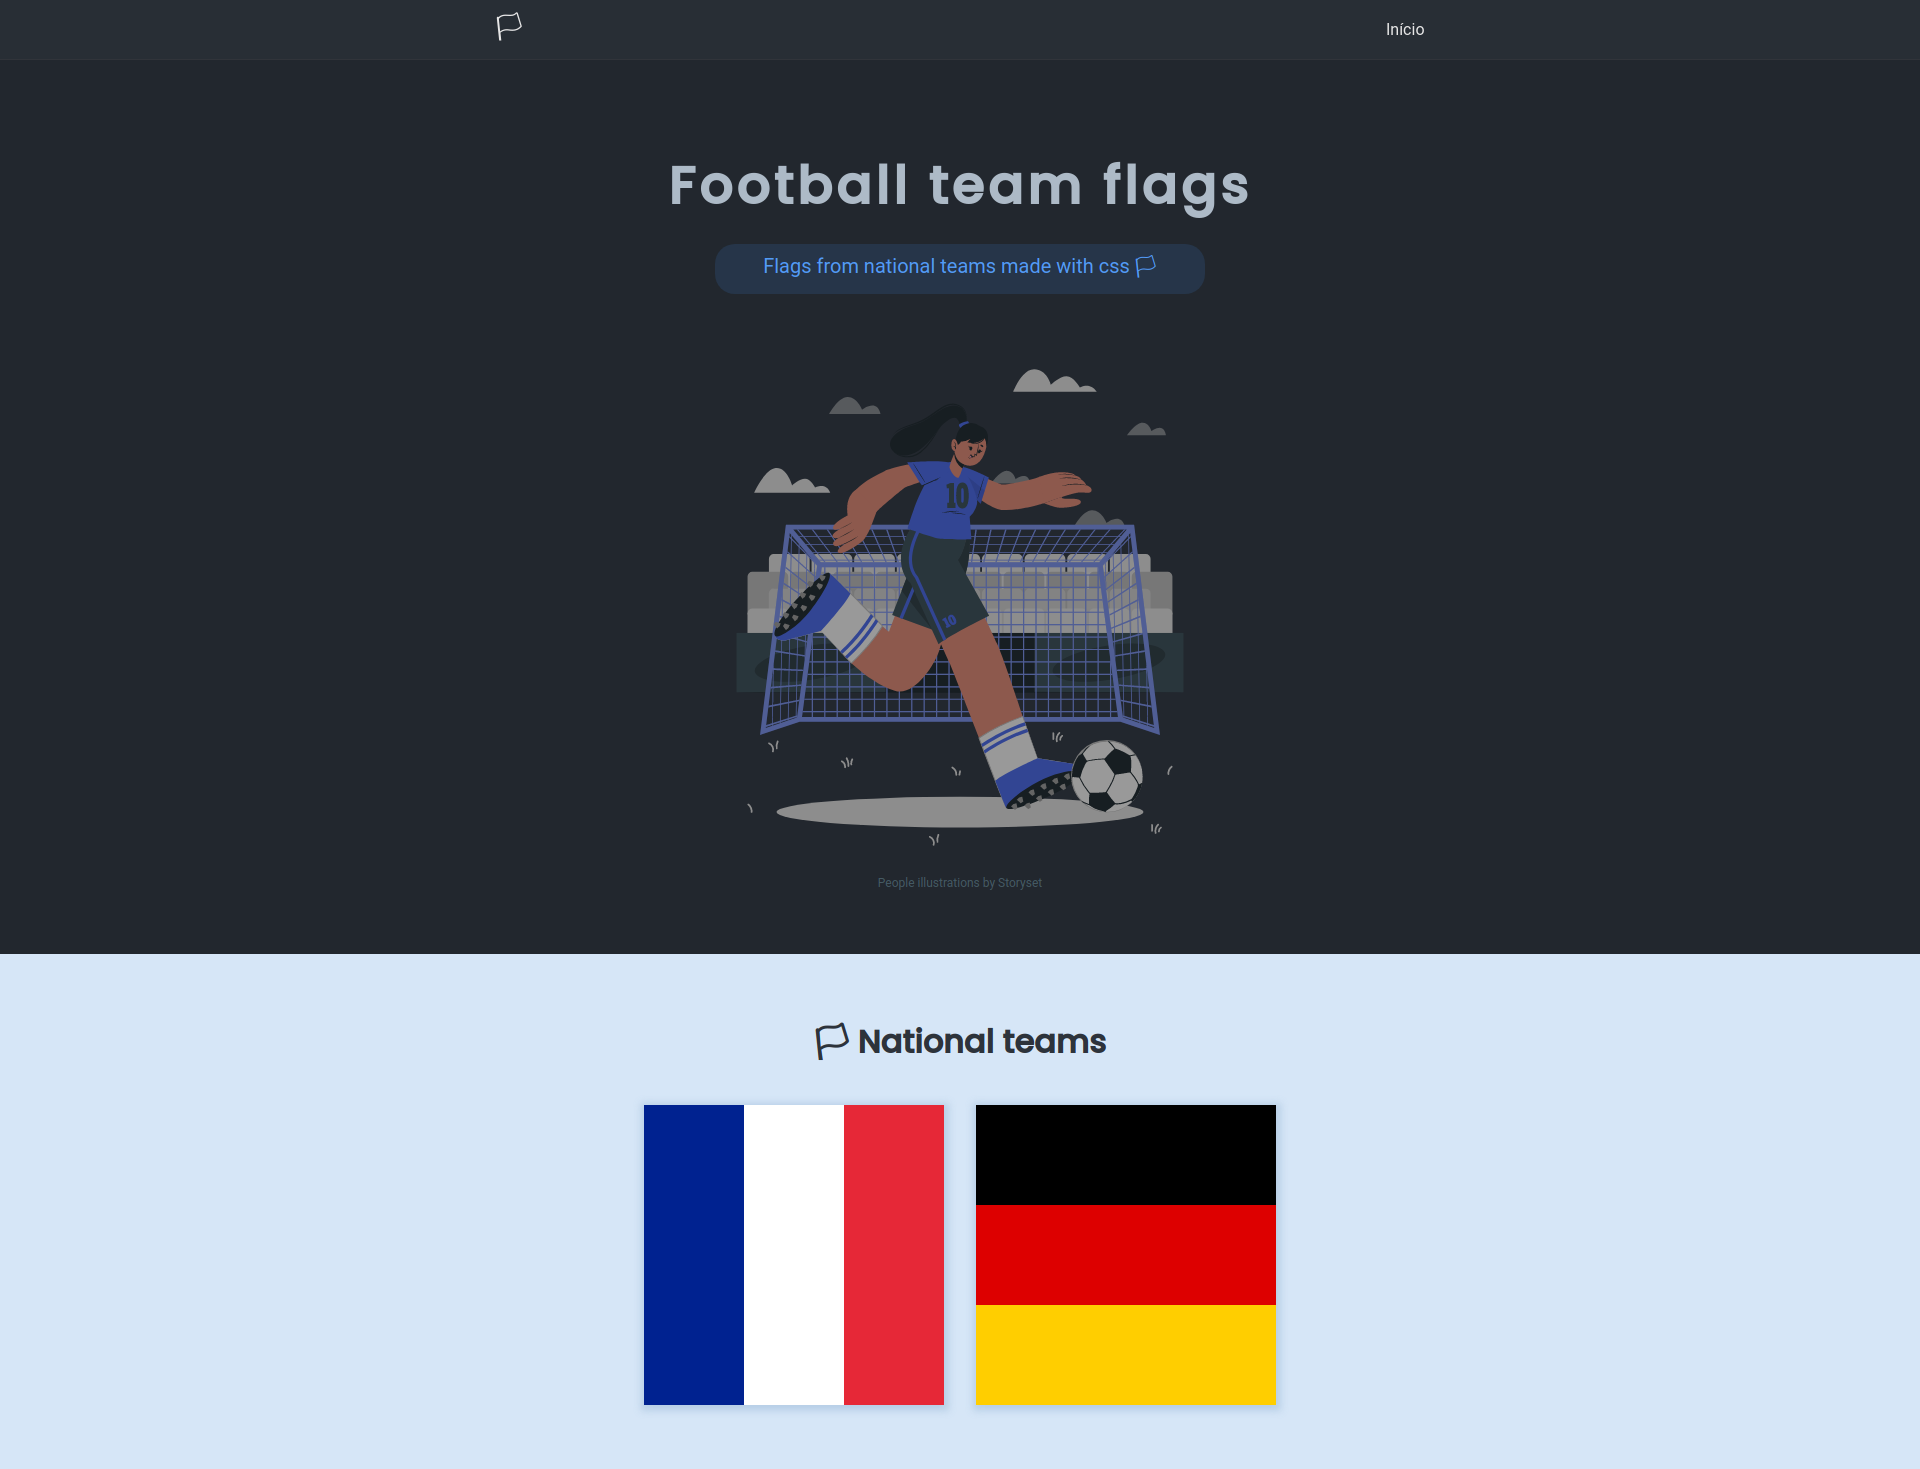
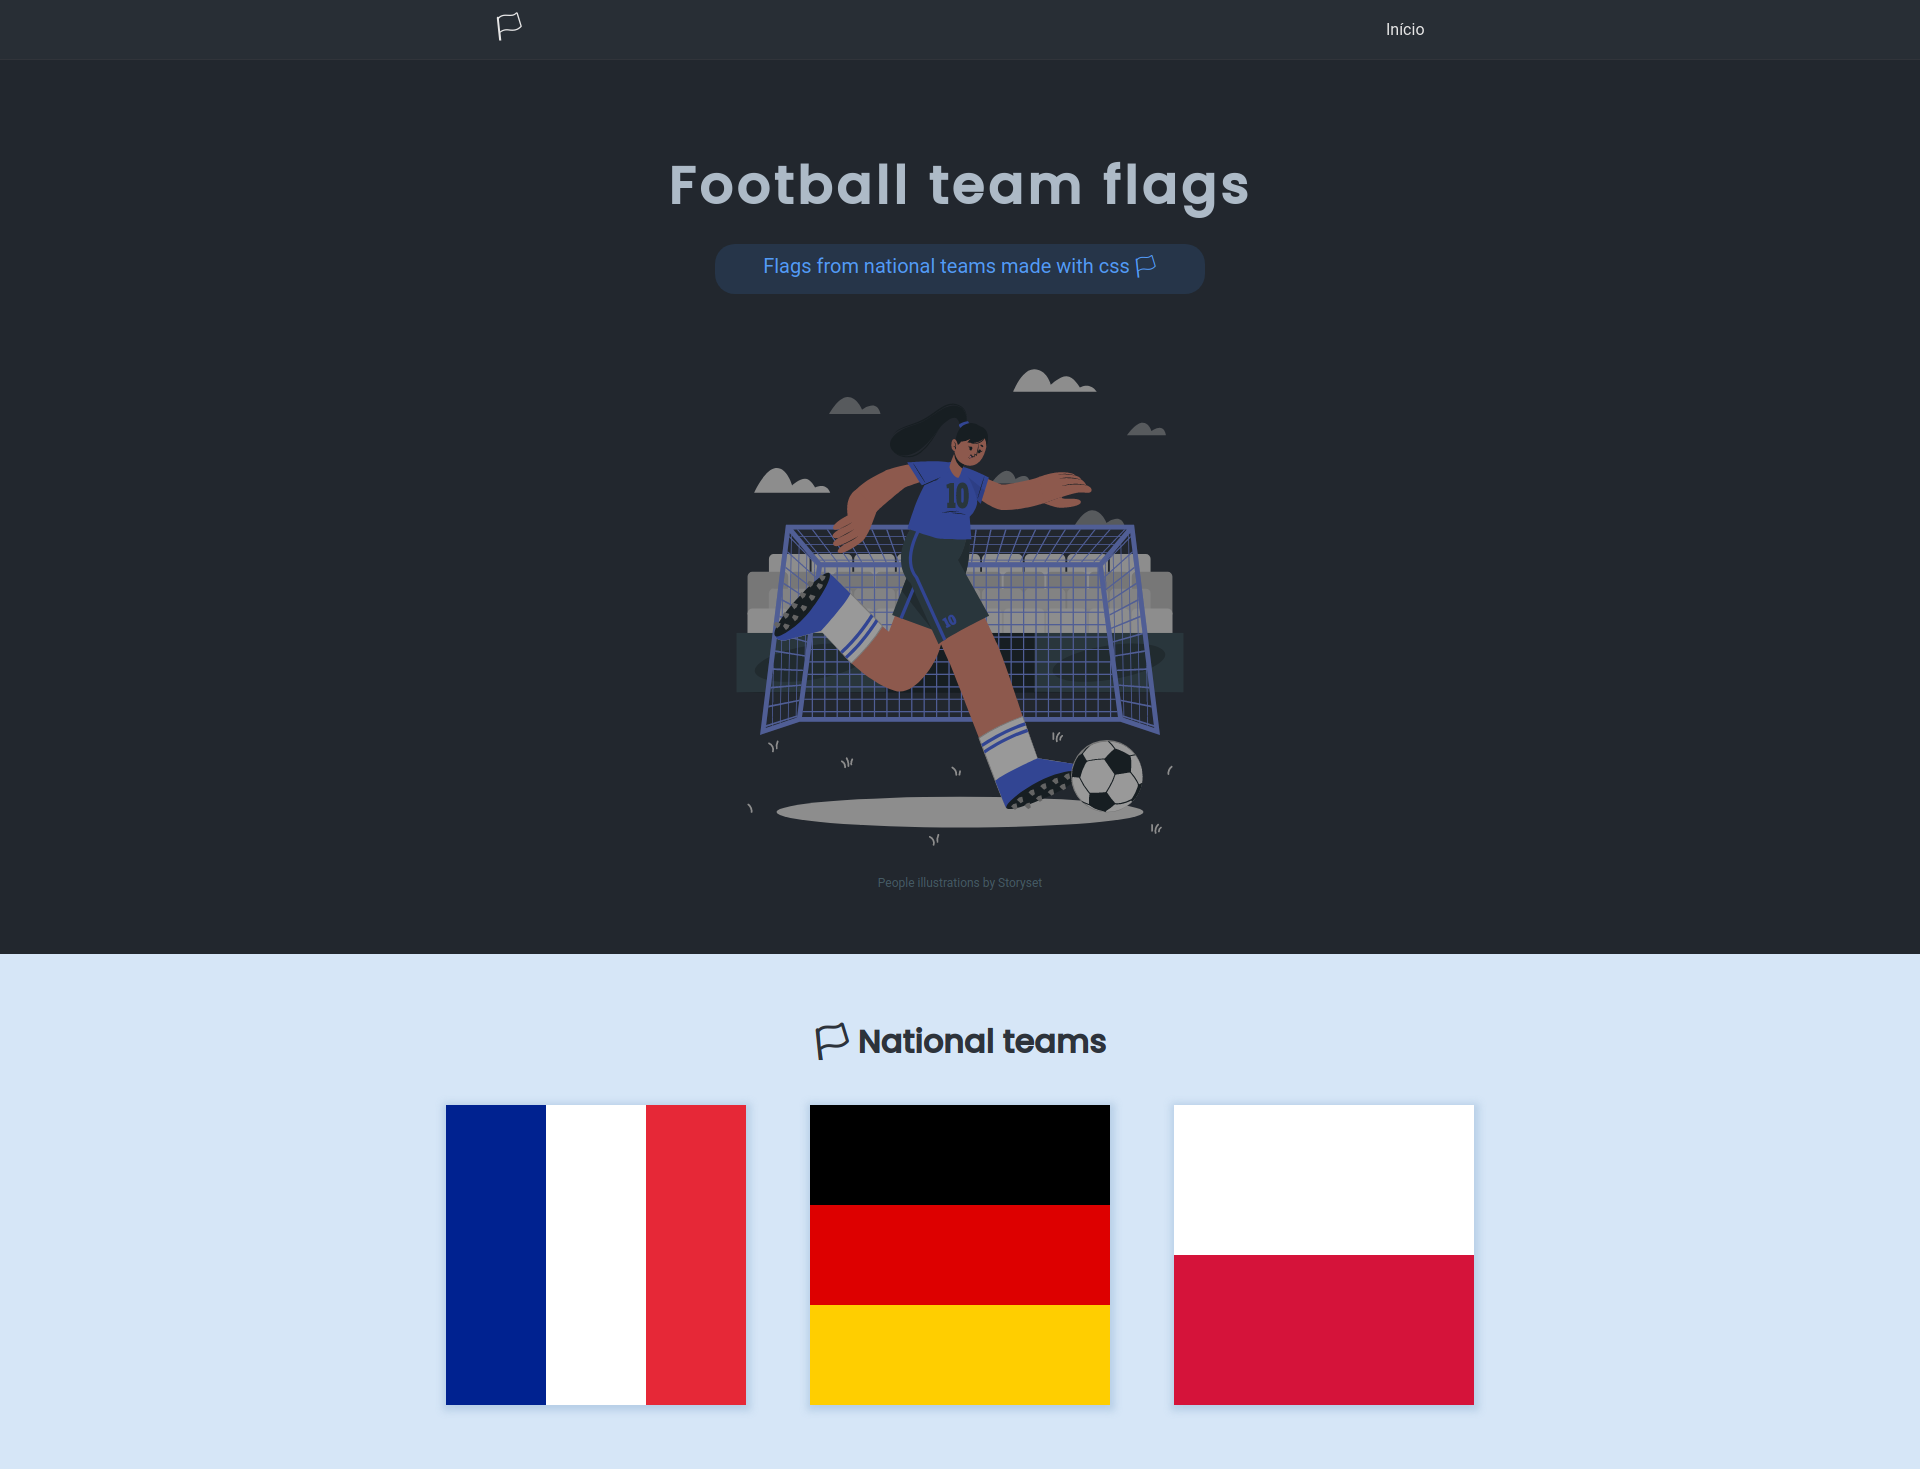
Add more space between flags and update screenshot from readme.md

Changed region(s): [[0.2188, 0.7352, 0.5312, 0.9803], [0.5625, 0.7352, 0.7812, 0.9803]]

diff --git a/css/app.css b/css/app.css
@@ -1,1 +1,1 @@
-@import url(https://fonts.googleapis.com/css2?family=Poppins:wght@400;500&family=Roboto:wght@400;700&display=swap);align-content-flex-end{-webkit-align-content:flex-end;-ms-flex-line-pack:end;align-content:flex-end}.flags,.the-header header,.the-hero .hero-img{-webkit-align-items:center;-webkit-box-align:center;-moz-box-align:center;-ms-flex-align:center;align-items:center;display:-webkit-box;display:-moz-box;display:-ms-flexbox;display:-webkit-flex;display:flex}.flags,.the-hero .hero-img{-webkit-flex-direction:column;-webkit-box-direction:normal;-webkit-box-orient:vertical;-moz-box-direction:normal;-ms-flex-direction:column;-moz-box-orient:vertical;flex-direction:column}.flags .list{display:-webkit-inline-box;display:-moz-inline-box;display:-ms-inline-flexbox;display:-webkit-inline-flex;display:inline-flex;-webkit-justify-content:center;-webkit-box-pack:center;justify-content:center;-moz-box-pack:center;-ms-flex-pack:center;gap:32px}.the-header header{-webkit-justify-content:space-between;-webkit-box-pack:justify;justify-content:space-between;-moz-box-pack:justify;-ms-flex-pack:justify;height:100%;margin:0 auto;max-width:993px;padding:0 32px}a,article,aside,body,button,div,figure,h1,h2,h3,h4,h5,h6,header,input,li,main,nav,section,span,table,tbody,td,th,thead,tr,ul{border:0;box-sizing:border-box;color:#adbac7;font-family:"Roboto",sans-serif;font-size:16px;font-weight:400;margin:0;padding:0}body{background-color:#22272e;height:100%;width:100%}ul{list-style:none}.the-header{background-color:#2d333b;border-bottom:1px solid #363a40;filter:brightness(.9);height:60px}.the-header .logo span{color:#fff;font-size:25px}.the-header ul li{color:#fff}.the-hero{margin:100px auto 0;max-width:993px;padding:0 32px 64px}.the-hero h1{font-family:"Poppins",sans-serif;font-size:52px;font-weight:700;letter-spacing:4px;line-height:100%;text-align:center}.the-hero h2{background-color:rgba(65,132,228,.15);border-radius:20px;color:#539bf5;font-size:20px;max-width:490px;margin:32px auto;padding:8px 16px;transition:all .2s;text-align:center}.the-hero h2:hover{background-color:rgba(65,132,228,.4)}.the-hero .hero-img a{color:#455a64;font-size:12px;text-decoration:none}.the-hero .hero-img svg{filter:brightness(.6);height:auto;max-width:550px}@media screen and (max-width:768px){.the-hero h1{text-align:left}.the-hero h2{margin:32px 0;text-align:center}}.flags{background:#d6e6f7;padding:64px 0}.flags h2{font-size:32px;font-family:"Poppins",sans-serif;font-weight:700;color:#2d333b;margin-bottom:32px}.flag{box-shadow:1px 2px 7px 4px rgba(177,202,228,.8);cursor:pointer;height:300px;width:300px}.flag.france{background-color:#fff;position:relative}.flag.france:after,.flag.france:before{content:'';height:300px;position:absolute;width:100px}.flag.france:before{left:0;background-color:#002290}.flag.france:after{background-color:#e62837;right:0}.flag.germany,.flag.poland{background-color:#d00;position:relative}.flag.germany:before{background-color:#000;content:'';height:100px;position:absolute;top:0;width:100%}.flag.germany:after,.flag.poland:after{background-color:#ffce00;bottom:0;content:'';height:100px;position:absolute;width:100%}.flag.poland{background-color:#fff}.flag.poland:after{background-color:#d5133a;height:150px}
+@import url(https://fonts.googleapis.com/css2?family=Poppins:wght@400;500&family=Roboto:wght@400;700&display=swap);align-content-flex-end{-webkit-align-content:flex-end;-ms-flex-line-pack:end;align-content:flex-end}.flags,.the-header header,.the-hero .hero-img{-webkit-align-items:center;-webkit-box-align:center;-moz-box-align:center;-ms-flex-align:center;align-items:center;display:-webkit-box;display:-moz-box;display:-ms-flexbox;display:-webkit-flex;display:flex}.flags,.the-hero .hero-img{-webkit-flex-direction:column;-webkit-box-direction:normal;-webkit-box-orient:vertical;-moz-box-direction:normal;-ms-flex-direction:column;-moz-box-orient:vertical;flex-direction:column}.flags .list{display:-webkit-inline-box;display:-moz-inline-box;display:-ms-inline-flexbox;display:-webkit-inline-flex;display:inline-flex;-webkit-justify-content:center;-webkit-box-pack:center;justify-content:center;-moz-box-pack:center;-ms-flex-pack:center;gap:64px}.the-header header{-webkit-justify-content:space-between;-webkit-box-pack:justify;justify-content:space-between;-moz-box-pack:justify;-ms-flex-pack:justify;height:100%;margin:0 auto;max-width:993px;padding:0 32px}a,article,aside,body,button,div,figure,h1,h2,h3,h4,h5,h6,header,input,li,main,nav,section,span,table,tbody,td,th,thead,tr,ul{border:0;box-sizing:border-box;color:#adbac7;font-family:"Roboto",sans-serif;font-size:16px;font-weight:400;margin:0;padding:0}body{background-color:#22272e;height:100%;width:100%}ul{list-style:none}.the-header{background-color:#2d333b;border-bottom:1px solid #363a40;filter:brightness(.9);height:60px}.the-header .logo span{color:#fff;font-size:25px}.the-header ul li{color:#fff}.the-hero{margin:100px auto 0;max-width:993px;padding:0 32px 64px}.the-hero h1{font-family:"Poppins",sans-serif;font-size:52px;font-weight:700;letter-spacing:4px;line-height:100%;text-align:center}.the-hero h2{background-color:rgba(65,132,228,.15);border-radius:20px;color:#539bf5;font-size:20px;max-width:490px;margin:32px auto;padding:8px 16px;transition:all .2s;text-align:center}.the-hero h2:hover{background-color:rgba(65,132,228,.4)}.the-hero .hero-img a{color:#455a64;font-size:12px;text-decoration:none}.the-hero .hero-img svg{filter:brightness(.6);height:auto;max-width:550px}@media screen and (max-width:768px){.the-hero h1{text-align:left}.the-hero h2{margin:32px 0;text-align:center}}.flags{background:#d6e6f7;padding:64px 0}.flags h2{font-size:32px;font-family:"Poppins",sans-serif;font-weight:700;color:#2d333b;margin-bottom:32px}.flag{box-shadow:1px 2px 7px 4px rgba(177,202,228,.8);cursor:pointer;height:300px;width:300px}.flag.france{background-color:#fff;position:relative}.flag.france:after,.flag.france:before{content:'';height:300px;position:absolute;width:100px}.flag.france:before{left:0;background-color:#002290}.flag.france:after{background-color:#e62837;right:0}.flag.germany,.flag.poland{background-color:#d00;position:relative}.flag.germany:before{background-color:#000;content:'';height:100px;position:absolute;top:0;width:100%}.flag.germany:after,.flag.poland:after{background-color:#ffce00;bottom:0;content:'';height:100px;position:absolute;width:100%}.flag.poland{background-color:#fff}.flag.poland:after{background-color:#d5133a;height:150px}

diff --git a/resources/styles/flags.scss b/resources/styles/flags.scss
@@ -16,7 +16,7 @@
   .list {
     @extend %inline-flex;
     @extend %justify-content-center;
-    gap: 32px;
+    gap: 64px;
   }
 }
 
